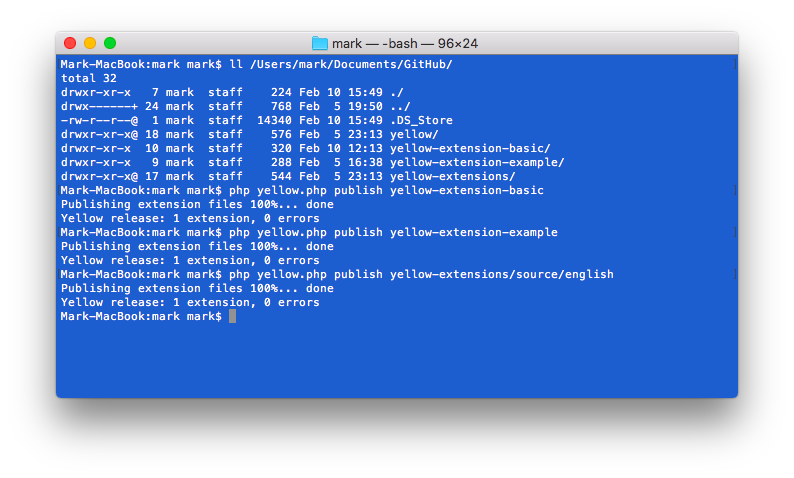
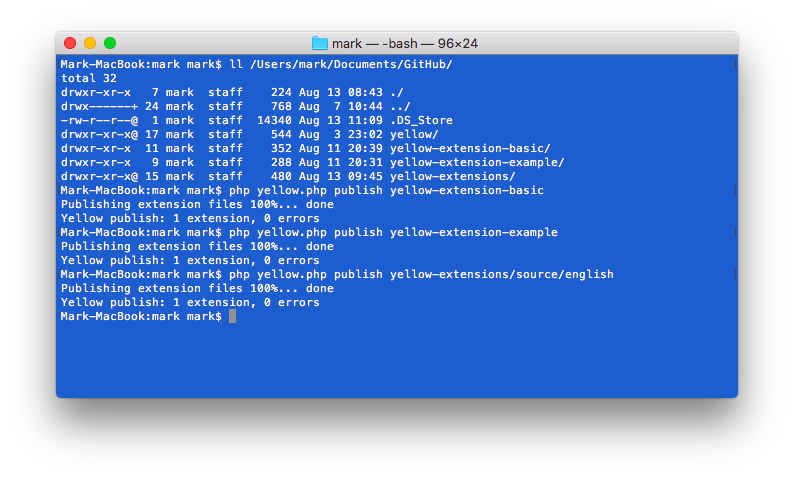
Updated publish extension, thanks Steffen

diff --git a/source/publish/publish.php b/source/publish/publish.php
@@ -2,7 +2,7 @@
 // Publish extension, https://github.com/datenstrom/yellow-extensions/tree/master/source/publish
 
 class YellowPublish {
-    const VERSION = "0.8.26";
+    const VERSION = "0.8.27";
     public $yellow;         // access to API
     public $extensions;     // number of extensions
     public $errors;         // number of errors
@@ -10,7 +10,7 @@ class YellowPublish {
     // Handle initialisation
     public function onLoad($yellow) {
         $this->yellow = $yellow;
-        $this->yellow->system->setDefault("publishSourceCodeDirectory", "/Users/yourname/Documents/GitHub/");
+        $this->yellow->system->setDefault("publishSourceCodeDirectory", "/My/Documents/GitHub/");
     }
 
     // Handle command
@@ -43,7 +43,7 @@ class YellowPublish {
                 $statusCode = max($statusCode, $this->updateExtensionDirectory("$entry/", $pathRepositoryOffical));
             }
             echo "\rPublishing extension files 100%... done\n";
-        } elseif (is_dir($pathRepository)) {
+        } elseif ($this->yellow->system->get("publishSourceCodeDirectory")!="/My/Documents/GitHub/") {
             $statusCode = 500;
             $this->extensions = 0;
             $this->errors = 1;
@@ -83,9 +83,10 @@ class YellowPublish {
         list($extension, $version, $published, $fileNameSource) = $this->getExtensionInformationFromSource($path);
         $fileNameExtension = $path.$this->yellow->system->get("updateExtensionFile");
         if (is_file($fileNameExtension) && !empty($extension) && !empty($version)) {
+            $url = $this->yellow->system->get("updateExtensionUrl")."/raw/master/zip/".strtoloweru("$extension.zip");
+            $settings = new YellowArray();
             $fileData = $this->yellow->toolbox->readFile($fileNameExtension);
             $fileDataNew = "";
-            $url = "https://github.com/datenstrom/yellow-extensions/raw/master/zip/".strtoloweru("$extension.zip");
             foreach ($this->yellow->toolbox->getTextLines($fileData) as $line) {
                 if (preg_match("/^\s*(.*?)\s*:\s*(.*?)\s*$/", $line, $matches)) {
                     if (lcfirst($matches[1])=="extension") $line = "Extension: ".ucfirst($extension)."\n";
@@ -93,6 +94,7 @@ class YellowPublish {
                     if (lcfirst($matches[1])=="downloadUrl") $line = "DownloadUrl: $url\n";
                     if (lcfirst($matches[1])=="published") $line = "Published: ".date("Y-m-d H:i:s", $published)."\n";
                     if (lcfirst($matches[1])=="status" && $matches[2]=="unpublished") $line = "";
+                    if (lcfirst($matches[1])=="type") $line = "Tag: $matches[2]\n";
                     if (!empty($matches[1]) && !empty($matches[2]) && strposu($matches[1], "/")) {
                         list($entry, $flags) = $this->yellow->toolbox->getTextList($matches[2], ",", 2);
                         if (strposu($entry, ".")===false) {
@@ -105,6 +107,7 @@ class YellowPublish {
                             echo "ERROR publishing files: File '$fileNameDestination' is not possible!\n";
                         }
                     }
+                    if (!empty($matches[1]) && !strempty($matches[2])) $settings[$matches[1]] = $matches[2];
                 }
                 $fileDataNew .= $line;
             }
@@ -122,6 +125,12 @@ class YellowPublish {
                     echo "ERROR publishing files: Can't write file '$fileNameExtension'!\n";
                 }
             }
+            if ($settings->get("status")!="unlisted") {
+                if (!$settings->isExisting("helpUrl") || !$settings->isExisting("downloadUrl")) {
+                    $statusCode = 500;
+                    echo "ERROR publishing files: Please configure HelpUrl and DownloadUrl in file '$fileNameExtension'!\n";
+                }
+            }
             if (defined("DEBUG") && DEBUG>=2) echo "YellowPublish::updateExtensionInformation file:$fileNameExtension<br/>\n";
         }
         return $statusCode;
@@ -130,7 +139,7 @@ class YellowPublish {
     // Update extension documentation file
     public function updateExtensionDocumentation($path) {
         $statusCode = 200;
-        list($extension, $version) = $this->getExtensionInformation($path);
+        list($extension, $version) = $this->getExtensionInformationFromSettings($path);
         $regex = "/^.*\\".$this->yellow->system->get("coreContentExtension")."$/";
         foreach ($this->yellow->toolbox->getDirectoryEntries($path, $regex, true, false) as $entry) {
             $fileData = $fileDataNew = $this->yellow->toolbox->readFile($entry);
@@ -153,7 +162,7 @@ class YellowPublish {
     // Update extension ZIP archive
     public function updateExtensionArchive($pathSource, $pathRepositoryOffical) {
         $statusCode = 200;
-        list($extension) = $this->getExtensionInformation($pathSource);
+        list($extension) = $this->getExtensionInformationFromSettings($pathSource);
         $fileNameExtension = $pathSource.$this->yellow->system->get("updateExtensionFile");
         if (is_file($fileNameExtension) && !empty($extension)) {
             $zip = new ZipArchive();
@@ -192,35 +201,24 @@ class YellowPublish {
     // Update extension latest file
     public function updateExtensionLatest($pathSource, $pathRepositoryOffical) {
         $statusCode = 200;
-        list($extension, $version, $published, $status) = $this->getExtensionInformation($pathSource);
+        list($extension, $version, $published, $status) = $this->getExtensionInformationFromSettings($pathSource);
+        $fileNameExtension = $pathSource.$this->yellow->system->get("updateExtensionFile");
         $fileNameLatest = $pathRepositoryOffical.$this->yellow->system->get("updateLatestFile");
-        if (is_file($fileNameLatest) && $status!="unlisted") {
-            $scan = false;
+        if (is_file($fileNameExtension) && is_file($fileNameLatest) && $status!="unlisted") {
+            $fileDataExtension = $this->yellow->toolbox->readFile($fileNameExtension);
+            $settingsExtension = $this->yellow->toolbox->getTextSettings($fileDataExtension, "");
             $fileData = $this->yellow->toolbox->readFile($fileNameLatest);
-            $fileDataStart = $fileDataMiddle = $fileDataEnd = "";
-            foreach ($this->yellow->toolbox->getTextLines($fileData) as $line) {
-                if (preg_match("/^\s*(.*?)\s*:\s*(.*?)\s*$/", $line, $matches)) {
-                    if (lcfirst($matches[1])=="extension" && !strempty($matches[2])) {
-                        $scan = lcfirst($matches[2])==lcfirst($extension);
+            $fileDataNew = $this->yellow->toolbox->setTextSettings($fileData, "extension", $extension, $settingsExtension);
+            if ($fileData!=$fileDataNew) {
+                $settings = $this->yellow->toolbox->getTextSettings($fileDataNew, "extension");
+                $settings->uksort("strnatcasecmp");
+                $fileDataNew = "# Datenstrom Yellow update settings\n";
+                foreach ($settings as $extension=>$block) {
+                    $fileDataNew .= "\n";
+                    foreach ($block as $key=>$value) {
+                        $fileDataNew .= (strposu($key, "/") ? $key : ucfirst($key)).": $value\n";
                     }
                 }
-                if (!$scan && empty($fileDataMiddle)) {
-                    $fileDataStart .= $line;
-                } elseif ($scan) {
-                    $fileDataMiddle .= $line;
-                } else {
-                    $fileDataEnd .= $line;
-                }
-            }
-            if (!empty($fileDataMiddle)) {
-                $fileDataMiddle = $this->getExtensionSettings($pathSource);
-                if (!empty($fileDataEnd)) $fileDataMiddle .= "\n";
-            } else {
-                if (!empty($fileDataStart)) $fileDataEnd .= "\n";
-                $fileDataEnd .= $this->getExtensionSettings($pathSource);
-            }
-            $fileDataNew = $fileDataStart.$fileDataMiddle.$fileDataEnd;
-            if ($fileData!=$fileDataNew) {
                 if (!$this->yellow->toolbox->createFile($fileNameLatest, $fileDataNew)) {
                     $statusCode = 500;
                     echo "ERROR publishing files: Can't write file '$fileNameLatest'!\n";
@@ -258,13 +256,13 @@ class YellowPublish {
             }
         }
         if (empty($extension) || empty($version) || empty($published)) {
-            list($extension, $version, $published) = $this->getExtensionInformation($path);
+            list($extension, $version, $published) = $this->getExtensionInformationFromSettings($path);
         }
         return array($extension, $version, $published, $fileNameSource);
     }
 
-    // Return extension information
-    public function getExtensionInformation($path) {
+    // Return extension information from settings
+    public function getExtensionInformationFromSettings($path) {
         $extension = $version = $published = $status = "";
         $fileNameExtension = $path.$this->yellow->system->get("updateExtensionFile");
         $fileData = $this->yellow->toolbox->readFile($fileNameExtension);
@@ -279,11 +277,20 @@ class YellowPublish {
         return array($extension, $version, $published, $status);
     }
     
+    // Return extension languages available
+    public function getExtensionLanguagesAvailable($path) {
+        $languages = array();
+        foreach($this->yellow->toolbox->getDirectoryEntries($path, "/.*/", true, true, false) as $entry) {
+            array_push($languages, $entry);
+        }
+        return array_unique($languages);
+    }
+    
     // Return extension file names required
     public function getExtensionFileNamesRequired($path) {
         $data = array();
         $extension = "";
-        $languages = $this->getExtensionLanguages($path);
+        $languages = $this->getExtensionLanguagesAvailable($path);
         $fileNameExtension = $path.$this->yellow->system->get("updateExtensionFile");
         $fileData = $this->yellow->toolbox->readFile($fileNameExtension);
         foreach ($this->yellow->toolbox->getTextLines($fileData) as $line) {
@@ -305,29 +312,5 @@ class YellowPublish {
         }
         $data[$fileNameExtension] = $extension."/".basename($fileNameExtension);
         return $data;
-    }
-    
-    // Return extension languages
-    public function getExtensionLanguages($path) {
-        $languages = array();
-        foreach($this->yellow->toolbox->getDirectoryEntries($path, "/.*/", true, true, false) as $entry) {
-            array_push($languages, $entry);
-        }
-        return array_unique($languages);
-    }
-
-    // Return extension settings
-    public function getExtensionSettings($path) {
-        $settings = "";
-        $fileNameExtension = $path.$this->yellow->system->get("updateExtensionFile");
-        $fileData = $this->yellow->toolbox->readFile($fileNameExtension);
-        foreach ($this->yellow->toolbox->getTextLines($fileData) as $line) {
-            if (preg_match("/^\s*(.*?)\s*:\s*(.*?)\s*$/", $line, $matches)) {
-                if (!empty($matches[1]) && !empty($matches[2])) {
-                    $settings .= "$matches[1]: $matches[2]\n";
-                }
-            }
-        }
-        return $settings;
     }
 }

diff --git a/source/publish/README-de.md b/source/publish/README-de.md
@@ -1,4 +1,4 @@
-Publish 0.8.26
+Publish 0.8.27
 ==============
 Erweiterungen verpacken und veröffentlichen.
 
@@ -28,7 +28,7 @@ HelpUrl: https://github.com/annasvensson/yellow-extension-example
 DownloadUrl: https://github.com/annasvensson/yellow-extension-example/archive/master.zip
 Published: 2019-01-24 19:42:13
 Developer: Anna Svensson
-Tag: feature
+Tag: example, feature
 system/extensions/example.php: example.php,create,update
 ~~~
 
@@ -61,7 +61,7 @@ HelpUrl: https://github.com/annasvensson/yellow-extension-basic
 DownloadUrl: https://github.com/annasvensson/yellow-extension-basic/archive/master.zip
 Published: 2019-01-24 19:42:13
 Designer: Anna Svensson
-Tag: theme
+Tag: example, theme
 system/extensions/basic.php: basic.php,create,update
 system/themes/basic.css: basic.css,create,update,careful
 system/themes/basic.png: basic.png,create

diff --git a/source/publish/README.md b/source/publish/README.md
@@ -1,4 +1,4 @@
-Publish 0.8.26
+Publish 0.8.27
 ==============
 Package and publish extensions.
 
@@ -28,7 +28,7 @@ HelpUrl: https://github.com/annasvensson/yellow-extension-example
 DownloadUrl: https://github.com/annasvensson/yellow-extension-example/archive/master.zip
 Published: 2019-01-24 19:42:13
 Developer: Anna Svensson
-Tag: feature
+Tag: example, feature
 system/extensions/example.php: example.php,create,update
 ~~~
 
@@ -61,7 +61,7 @@ HelpUrl: https://github.com/annasvensson/yellow-extension-basic
 DownloadUrl: hhttps://github.com/annasvensson/yellow-extension-basic/archive/master.zip
 Published: 2019-01-24 19:42:13
 Designer: Anna Svensson
-Tag: theme
+Tag: example, theme
 system/extensions/basic.php: basic.php,create,update
 system/themes/basic.css: basic.css,create,update,careful
 system/themes/basic.png: basic.png,create
